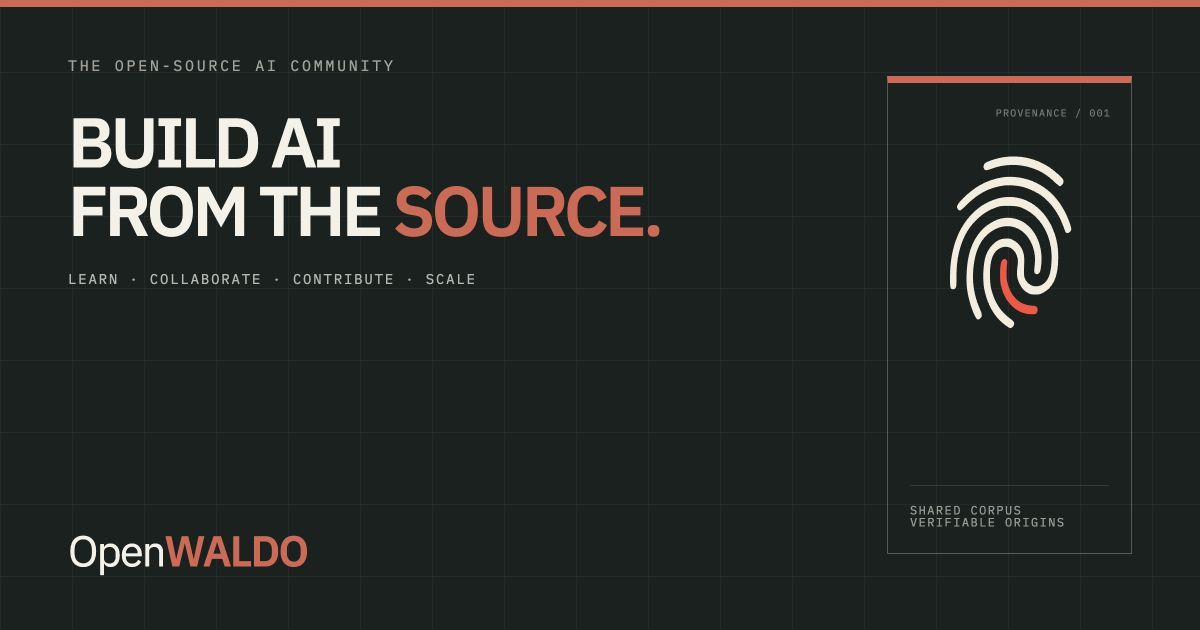
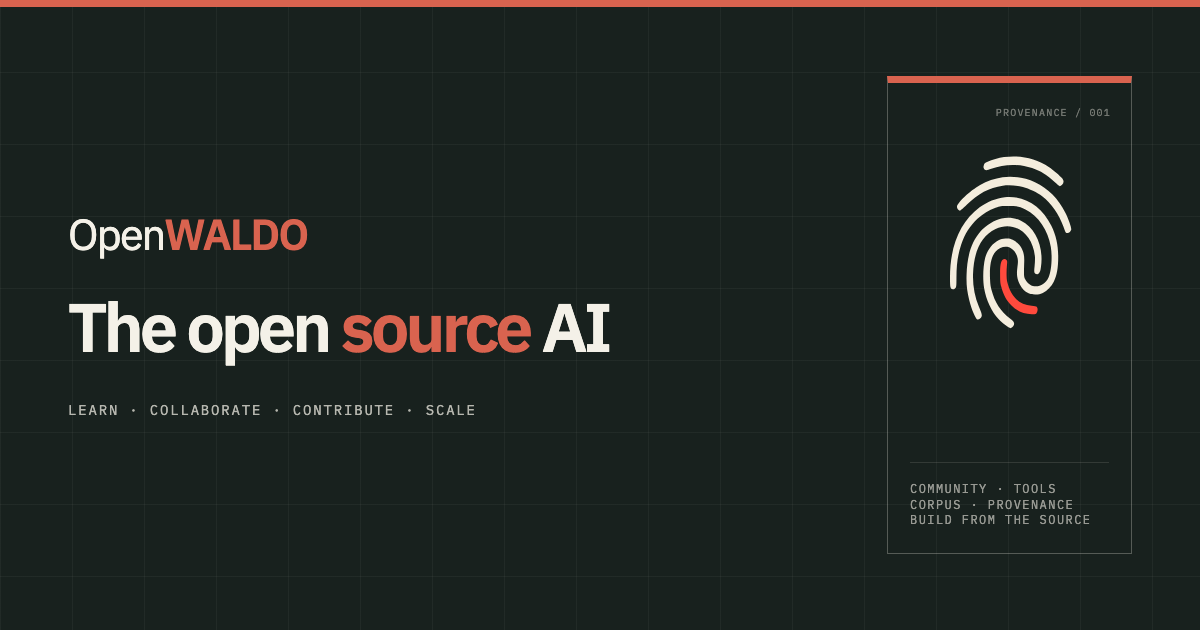
Refine homepage hero and social preview

diff --git a/assets/og-source.html b/assets/og-source.html
@@ -45,21 +45,26 @@
         background: #d9634f;
       }
       .copy {
-        position: relative;
+        position: absolute;
+        top: 50%;
+        transform: translateY(-50%);
         z-index: 1;
         width: 825px;
       }
       .eyebrow {
-        margin: 0 0 34px;
-        color: rgba(244, 241, 232, 0.62);
-        font:
-          15px/1 "Plex Mono",
-          monospace;
-        letter-spacing: 0.18em;
+        margin: 0 0 38px;
+        color: #f4f1e8;
+        font-size: 43px;
+        line-height: 1;
+        letter-spacing: -0.04em;
+      }
+      .eyebrow strong {
+        color: #d9634f;
+        font-weight: 600;
       }
       h1 {
         margin: 0;
-        font-size: 70px;
+        font-size: 68px;
         line-height: 0.98;
         letter-spacing: -0.055em;
         font-weight: 600;
@@ -68,25 +73,12 @@
         color: #d9634f;
       }
       .subline {
-        margin: 28px 0 0;
+        margin: 42px 0 0;
         color: rgba(244, 241, 232, 0.72);
         font:
           14px/1 "Plex Mono",
           monospace;
         letter-spacing: 0.13em;
-      }
-      .brand {
-        position: absolute;
-        bottom: 58px;
-        left: 68px;
-        margin: 0;
-        font-size: 43px;
-        line-height: 1;
-        letter-spacing: -0.04em;
-      }
-      .brand strong {
-        color: #d9634f;
-        font-weight: 600;
       }
       .mark-panel {
         position: absolute;
@@ -114,7 +106,7 @@
         border-top: 1px solid rgba(244, 241, 232, 0.12);
         color: rgba(244, 241, 232, 0.58);
         font:
-          12px/1 "Plex Mono",
+          12px/1.3 "Plex Mono",
           monospace;
         letter-spacing: 0.12em;
       }
@@ -133,15 +125,14 @@
   <body>
     <main class="card">
       <div class="copy">
-        <p class="eyebrow">THE OPEN-SOURCE AI COMMUNITY</p>
-        <h1>BUILD AI<br />FROM THE <span>SOURCE.</span></h1>
+        <p class="eyebrow">Open<strong>WALDO</strong></p>
+        <h1>The open <span>source</span> AI</h1>
         <p class="subline">LEARN · COLLABORATE · CONTRIBUTE · SCALE</p>
       </div>
-      <p class="brand">Open<strong>WALDO</strong></p>
       <div class="mark-panel">
         <span class="serial">PROVENANCE / 001</span>
         <img src="mark.svg" alt="" />
-        <p>SHARED CORPUS<br />VERIFIABLE ORIGINS</p>
+        <p>COMMUNITY · TOOLS<br />CORPUS · PROVENANCE<br />BUILD FROM THE SOURCE</p>
       </div>
     </main>
   </body>

diff --git a/assets/style.css b/assets/style.css
@@ -474,10 +474,11 @@ em { font-family: inherit; font-style: normal; font-weight: inherit; color: var(
 .hero-object { min-height: 390px; align-self: center; padding: 30px; border: 1px solid rgba(244,241,232,.35); border-top: 5px solid var(--red); background: rgba(244,241,232,.035); color: var(--paper); }
 .hero-object::after { content: "PROVENANCE / 001"; top: 30px; right: 30px; width: auto; height: auto; border: 0; border-radius: 0; box-shadow: none; font: 400 9px var(--font-mono); letter-spacing: .1em; color: rgba(244,241,232,.45); }
 .hero-object .provenance-mark { width: 36px; height: 52px; filter: none; }
-.hero-object p { margin-bottom: 10px; font-size: 21px; font-weight: 500; letter-spacing: .07em; }
+.hero-object p { max-width: 210px; margin-bottom: 14px; font-family: var(--font-sans); font-size: 21px; line-height: 1; font-weight: 400; letter-spacing: -.025em; text-transform: none; }
 .hero-object p b { color: var(--red); font-weight: 700; }
-.hero-object strong { font-size: clamp(47px, 4.4vw, 62px); line-height: .88; letter-spacing: -.055em; font-weight: 600; color: var(--paper); }
-.hero-object > span { font-weight: 400; }
+.hero-object strong { font-size: clamp(34px, 3vw, 44px); line-height: .94; letter-spacing: -.045em; font-weight: 600; color: var(--paper); }
+.hero-object strong em { color: var(--red); }
+.hero-object > span { font-size: 9px; line-height: 1.45; font-weight: 400; letter-spacing: .08em; }
 .hero-rule { height: 68px; }
 
 .corpus-pulse { border-color: var(--ink); }

diff --git a/index.html b/index.html
@@ -75,8 +75,8 @@
               Learn, get help, find collaborators, and build open-source AI together.
             </p>
             <p class="hero-lede">
-              OpenWALDO is a community of builders, researchers, operators, companies, and learners
-              creating a shared, accountable foundation of AI training data.
+              OpenWALDO brings builders, researchers, operators, companies, and vibe coders
+              together to share knowledge, build tools and models, and grow open source.
             </p>
             <div class="actions hero-community-actions">
               <a
@@ -92,10 +92,11 @@
               >
             </div>
           </div>
-          <div class="hero-object" aria-label="WALDO: the AI source code">
+          <div class="hero-object" aria-label="Build AI from the source with OpenWALDO">
             <img class="provenance-mark" src="assets/mark.svg" alt="" />
-            <p>THE <b>AI</b></p>
-            <strong>SOURCE<br />CODE.</strong><span>OpenWALDO</span>
+            <p>Open<b>WALDO</b></p>
+            <strong>The open<br /><em>source</em> AI</strong>
+            <span>LEARN · COLLABORATE · CONTRIBUTE · SCALE</span>
           </div>
         </div>
         <div class="hero-rule shell">
